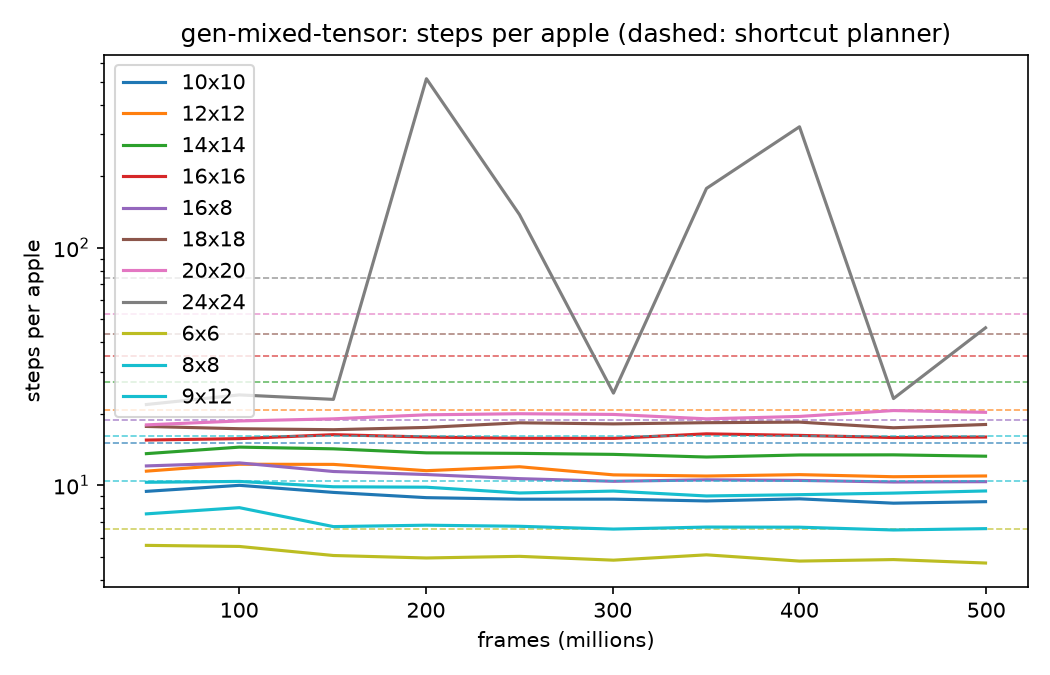
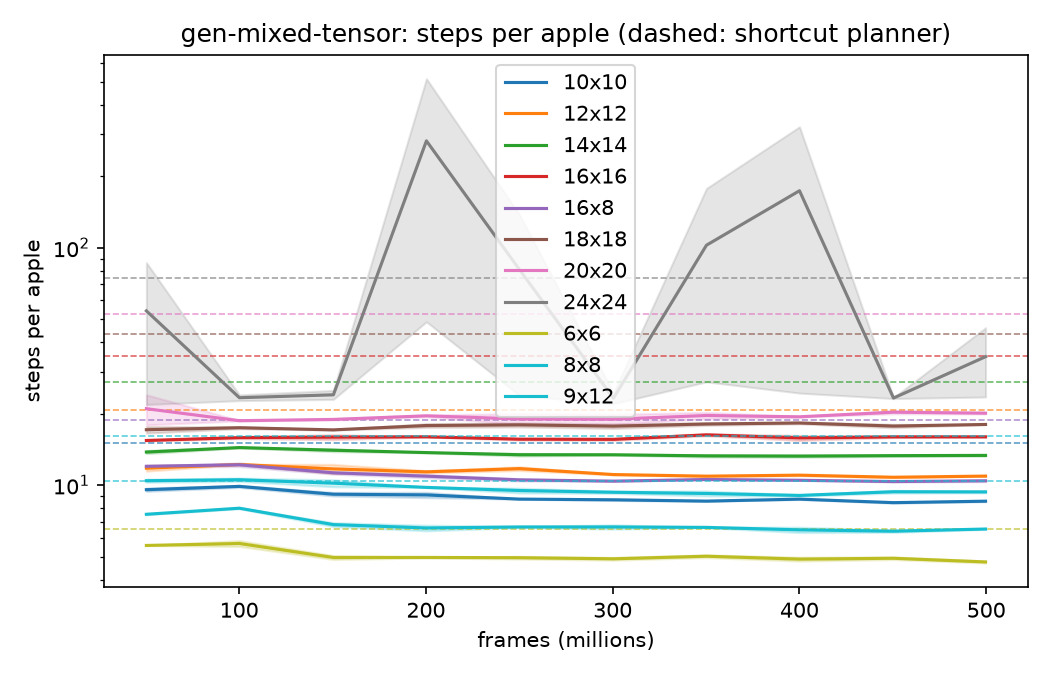
docs: two-seed generalization table with mean and spread

Changed region(s): [[0.0914, 0.0933, 0.9448, 0.84], [0.3657, 0.7778, 0.9448, 0.84]]

diff --git a/docs/paper/results.md b/docs/paper/results.md
@@ -72,24 +72,29 @@ config hash.
 
 ## Generalization campaign
 
-One policy (gen-mixed-tensor, 500M frames, eight training geometries
-up to 16x16, canvas 16), final 100-episode eval per board. Boards
-marked held-out were never trained on; the last three exceed the
-training canvas entirely.
+One policy (gen-mixed-tensor, two seeds, 500M frames each, eight
+training geometries up to 16x16, canvas 16), final 100-episode eval
+per board, mean +- spread over seeds. Boards marked held-out were
+never trained on; the last three exceed the training canvas entirely.
+Oracle is the shortcut planner (100 percent wins on every board).
 
-| Board | status      | spa   | fill | win | oracle spa |
-| ----- | ----------- | ----- | ---- | --- | ---------- |
-| 6x6   | held out    | 4.70  | 99%  | 96% | 6.6        |
-| 8x8   | trained     | 6.56  | 98%  | 95% | 10.4       |
-| 9x12  | held out    | 9.45  | 95%  | 82% | 16.2       |
-| 10x10 | trained     | 8.51  | 96%  | 92% | 15.1       |
-| 12x12 | trained     | 10.93 | 85%  | 66% | 20.7       |
-| 14x14 | held out    | 13.24 | 75%  | 43% | 27.1       |
-| 16x8  | held out    | 10.34 | 91%  | 79% | 18.9       |
-| 16x16 | trained     | 15.94 | 62%  | 17% | 34.9       |
-| 18x18 | extrapolation | 18.00 | 49% | 5%  | 43.2       |
-| 20x20 | extrapolation | 20.25 | 39% | 0%  | 52.8       |
-| 24x24 | extrapolation | 46.0 (noisy) | 23% | 0% | 74.8 |
+| Board | status        | spa            | fill        | win        | oracle spa |
+| ----- | ------------- | -------------- | ----------- | ---------- | ---------- |
+| 6x6   | held out      | 4.75 +- 0.05   | 99% +- 0%   | 97% +- 1%  | 6.6        |
+| 8x8   | trained       | 6.53 +- 0.02   | 99% +- 0%   | 96% +- 1%  | 10.4       |
+| 9x12  | held out      | 9.36 +- 0.09   | 95% +- 1%   | 84% +- 3%  | 16.2       |
+| 10x10 | trained       | 8.56 +- 0.04   | 96% +- 0%   | 91% +- 2%  | 15.1       |
+| 12x12 | trained       | 10.91 +- 0.01  | 86% +- 1%   | 65% +- 1%  | 20.7       |
+| 14x14 | held out      | 13.34 +- 0.10  | 74% +- 0%   | 38% +- 5%  | 27.1       |
+| 16x8  | held out      | 10.42 +- 0.09  | 91% +- 0%   | 78% +- 1%  | 18.9       |
+| 16x16 | trained       | 15.97 +- 0.03  | 63% +- 1%   | 17% +- 0%  | 34.9       |
+| 18x18 | extrapolation | 18.00 +- 0.00  | 48% +- 1%   | 3% +- 2%   | 43.2       |
+| 20x20 | extrapolation | 20.09 +- 0.16  | 39% +- 0%   | 0%         | 52.8       |
+| 24x24 | extrapolation | 34.7 +- 11.2 (noisy) | 24% +- 1% | 0%   | 74.8       |
+
+Across two seeds the spread is small everywhere except the 24x24
+extrapolation tail, so the pattern below is a property of the method,
+not a single lucky run.
 
 Three observations. First, held-out interpolation boards are
 statistically indistinguishable from trained boards of similar size:
@@ -104,6 +109,6 @@ extrapolation degrades gracefully in fill (49, 39, 23 percent at
 the single-board policy showed beyond 1.4x its training area.
 
 The mixed-geometry policy also beats the three dedicated 10x10
-seeds on their own board within noise (92 versus 78 +- 4 percent
-wins), so geometry diversity cost nothing on the home board and
-bought the entire transfer envelope.
+seeds on their own board (91 +- 2 versus 78 +- 4 percent wins), so
+geometry diversity cost nothing on the home board and bought the
+entire transfer envelope.

diff --git a/docs/paper/limitations.md b/docs/paper/limitations.md
@@ -11,9 +11,10 @@ Grounded in the ledger; no claim here exceeds what was measured.
   (legacy observation at 8 percent fill versus 64 percent); the
   reward-side effects are within plausible single-seed noise and are
   not claimed as significant.
-- The generalization headline is being lifted from one seed to two
-  (gen-mixed-tensor seed 1 in progress) to report mean and spread,
-  matching the bar applied to the single-board result.
+- The generalization headline is two seeds, reported as mean and
+  spread. The two seeds agree tightly (per-board win-rate spread at
+  or below 5 points except the 24x24 extrapolation tail), so the
+  transfer pattern is a method property rather than a single run.
 
 ## Measurement
 
